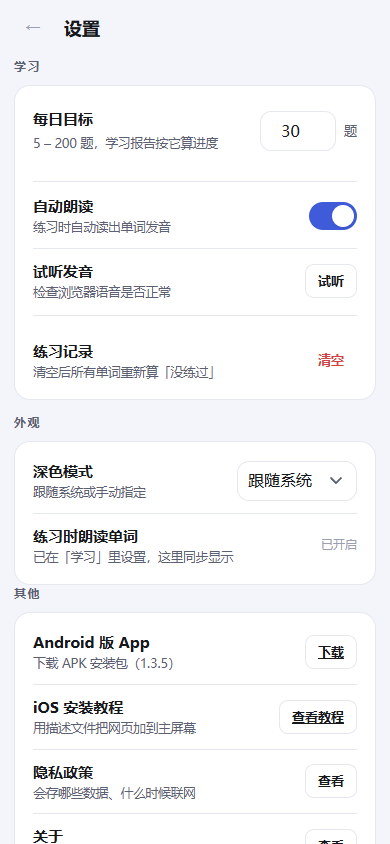
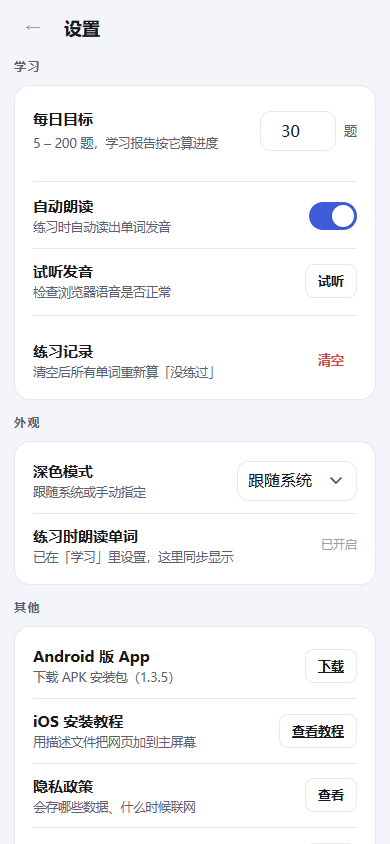
feat: 已用空间改 MB；备份块并入设置拼图；开源许可移出关于；移动端提示
1. 已用空间
- 词库管理页底部改为 formatSize()：不小于 1MB 显示 MB（一位小数），否则 KB
- 实测 2.2 MB

2. 设置页拼图
- 「数据与备份」从整行 span-2 改成普通块，与「其他」一起排进第二行
- 「其他」原本寄居在「外观」块里，现独立成块
- 现在四块 2x2：学习 / 外观 / 其他 / 数据与备份，1280x900 一屏放得下

3. 开放源代码许可
- 从「关于」弹窗与 about.txt 里移除，挪到「设置-其他」独立一行，直链 LICENSE

4. 移动端提示
- 文案改为「页面已支持移动端部署，详情请查看设置」
- 判定从仅 iOS 扩展到 iOS + Android，桌面端仍不显示
- 关闭后写入 worddrill.installTip=off，不再打扰

版本 web-1.10，缓存 1.10.0

Changed region(s): [[0.0308, 0.6777, 0.5231, 1.0], [0.7385, 0.7393, 0.8923, 1.0], [0.3077, 0.9242, 0.5231, 0.9858]]

diff --git a/public/app.js b/public/app.js
@@ -150,10 +150,11 @@ function topbar() {
 
 /** iOS Safari 没有安装按钮，只能用一句提示教用户加到主屏幕。 */
 function installTipHtml() {
-  if (isStandalone() || prefs.get('worddrill.installTip') === 'off' || !isIos()) return '';
+  if (isStandalone() || prefs.get('worddrill.installTip') === 'off') return '';
+  if (!isIos() && !isAndroid()) return '';
   return `
     <div class="install-tip">
-      <span>点 Safari 底部的分享按钮 →「添加到主屏幕」，以后没网也能用</span>
+      <span>页面已支持移动端部署，详情请查看设置</span>
       <button class="icon-btn" data-action="dismiss-install" title="不再提示">✕</button>
     </div>`;
 }
@@ -1010,9 +1011,16 @@ async function renderBooks() {
 }
 
 function storageLine(info) {
-  const kb = Math.round(info.usageBytes / 1024);
   if (!info.persistent) return '浏览器不允许本地存储，本次打开的修改在关闭后会丢失';
-  return `已用 ${kb} KB · 保存在本机浏览器，不上传任何服务器`;
+  return `已用 ${formatSize(info.usageBytes)} · 保存在本机浏览器，不上传任何服务器`;
+}
+
+/** 字节数说成人话：不足 1MB 用 KB，否则用 MB。 */
+function formatSize(bytes) {
+  const n = Number(bytes) || 0;
+  const mb = n / (1024 * 1024);
+  if (mb >= 1) return `${mb.toFixed(1)} MB`;
+  return `${Math.max(1, Math.round(n / 1024))} KB`;
 }
 
 function downloadFile(name, text, type = 'application/json') {
@@ -1448,7 +1456,9 @@ async function renderSettings() {
               <span class="hint" id="ttsState">${settings.ttsEnabled() ? '已开启' : '已关闭'}</span>
             </div>
           </div>
+        </section>
 
+        <section class="settings-tile">
           <div class="section-label">其他</div>
           <div class="card settings">
             <div class="setting-row" style="padding-top:0">
@@ -1472,6 +1482,13 @@ async function renderSettings() {
               </div>
               <button class="btn small ghost" data-action="privacy">查看</button>
             </div>
+            <div class="setting-row">
+              <div class="setting-text">
+                <div class="title">开放源代码许可</div>
+                <small>MIT 协议，词库来自开源项目</small>
+              </div>
+              <a class="btn small ghost" href="https://github.com/SpeakerC/worddrill-web/blob/main/LICENSE" target="_blank" rel="noopener">查看</a>
+            </div>
             <div class="setting-row" style="padding-bottom:0">
               <div class="setting-text">
                 <div class="title">关于</div>
@@ -1482,7 +1499,7 @@ async function renderSettings() {
           </div>
         </section>
 
-        <section class="settings-tile span-2">
+        <section class="settings-tile">
           <div class="section-label">数据与备份</div>
           <div class="card settings">
             <div class="setting-row" style="padding-top:0">
@@ -2156,6 +2173,7 @@ async function registerServiceWorker() {
 const isStandalone = () => window.matchMedia('(display-mode: standalone)').matches
   || window.navigator.standalone === true;
 const isIos = () => /iphone|ipad|ipod/i.test(navigator.userAgent);
+const isAndroid = () => /android/i.test(navigator.userAgent);
 
 /* 方便调试和自动化测试 */
 window.worddrill = { repo };
@@ -2166,6 +2184,8 @@ boot().catch((err) => {
     <h2>启动失败</h2><p>${esc(err.message)}</p>
     <p class="hint">请确认浏览器允许本地存储，然后刷新页面重试。</p></div>`;
 });
+
+
 
 
 

diff --git a/scripts/ui-smoke.js b/scripts/ui-smoke.js
@@ -173,6 +173,18 @@ async function main() {
     await page.waitForFunction(() => document.documentElement.dataset.theme === 'dark');
     await page.selectOption('#themeSelect', 'auto');
 
+    /* ---------- 设置页拼图：备份块不再是整行，其他里有开源许可 ---------- */
+    const settingsTiles = await page.evaluate(() => [...document.querySelectorAll('.settings-tile')].map((el) => {
+      const label = el.querySelector('.section-label');
+      const r = el.getBoundingClientRect();
+      return { label: label ? label.textContent : '', width: Math.round(r.width) };
+    }));
+    check(settingsTiles.length === 4, `设置页应有 4 块拼图，实际 ${settingsTiles.length}`);
+    const backupTile = settingsTiles.find((t) => t.label === '数据与备份');
+    check(Boolean(backupTile), '设置页应有「数据与备份」块');
+    check(backupTile && backupTile.width < 500, '数据与备份应与其他块同宽，不独占整行');
+    check(settingsTiles.some((t) => t.label === '其他'), '设置页应有「其他」块');
+
     /* ---------- 自动备份三项 ---------- */
     await page.waitForSelector('#autobackupInput', { state: 'attached' });
     check(await page.isChecked('#autobackupInput'), '自动备份默认应开启');
@@ -207,9 +219,16 @@ async function main() {
     await page.click('[data-action="about"]');
     await page.waitForSelector('.about-card');
     const about = await page.textContent('.about-card');
-    check(about.includes('版本 web-1.9'), '关于页应显示版本');
+    check(about.includes('版本 web-1.10'), '关于页应显示版本');
     check(about.includes('zlt mteacase'), '关于页应显示开发者');
+    check(!about.includes('开放源代码许可'), '开源许可应已移出关于弹窗');
     await page.keyboard.press('Escape');
+
+    /* ---------- 词库管理：已用空间用 MB ---------- */
+    await page.evaluate(() => { location.hash = '#/books'; });
+    await page.waitForSelector('.center-col');
+    const booksText = await page.textContent('.center-col');
+    check(/已用\s*[\d.]+\s*MB/.test(booksText), `已用空间应以 MB 计，实际：${(booksText.match(/已用[^·]*/) || ['无'])[0]}`);
 
     /* ---------- 刷新后数据还在 ---------- */
     await page.evaluate(() => { location.hash = '#/'; });
@@ -266,6 +285,7 @@ main().catch((err) => {
   console.error('✖ 冒烟失败：', err.message);
   process.exit(1);
 });
+
 
 
 

diff --git a/public/js/repo.js b/public/js/repo.js
@@ -9,7 +9,7 @@ import { parseAbout } from './about.js';
 import { createStorage, getLocalStorage, memoryStorage, exportBackup, parseBackup, clearCache } from './persist.js';
 import { autoBackupEnabled, backupIntervalHours, backupKeepCount } from './settings.js';
 
-export const VERSION = 'web-1.9';
+export const VERSION = 'web-1.10';
 export { MODES, isCorrect };
 
 let autoTimer = 0;
@@ -435,6 +435,7 @@ export function clearAutoBackups() {
 export async function clearOfflineCache() {
   return clearCache();
 }
+
 
 
 

diff --git a/public/sw.js b/public/sw.js
@@ -2,7 +2,7 @@
  * 离线缓存：装到桌面后断网也能用。
  * 改了任何静态文件，把 VERSION 加一，用户下次打开就会拿到新版本。
  */
-const VERSION = '1.9.0';
+const VERSION = '1.10.0';
 const CACHE = `worddrill-${VERSION}`;
 
 const ASSETS = [
@@ -100,6 +100,7 @@ self.addEventListener('fetch', (event) => {
     }),
   );
 });
+
 
 
 
